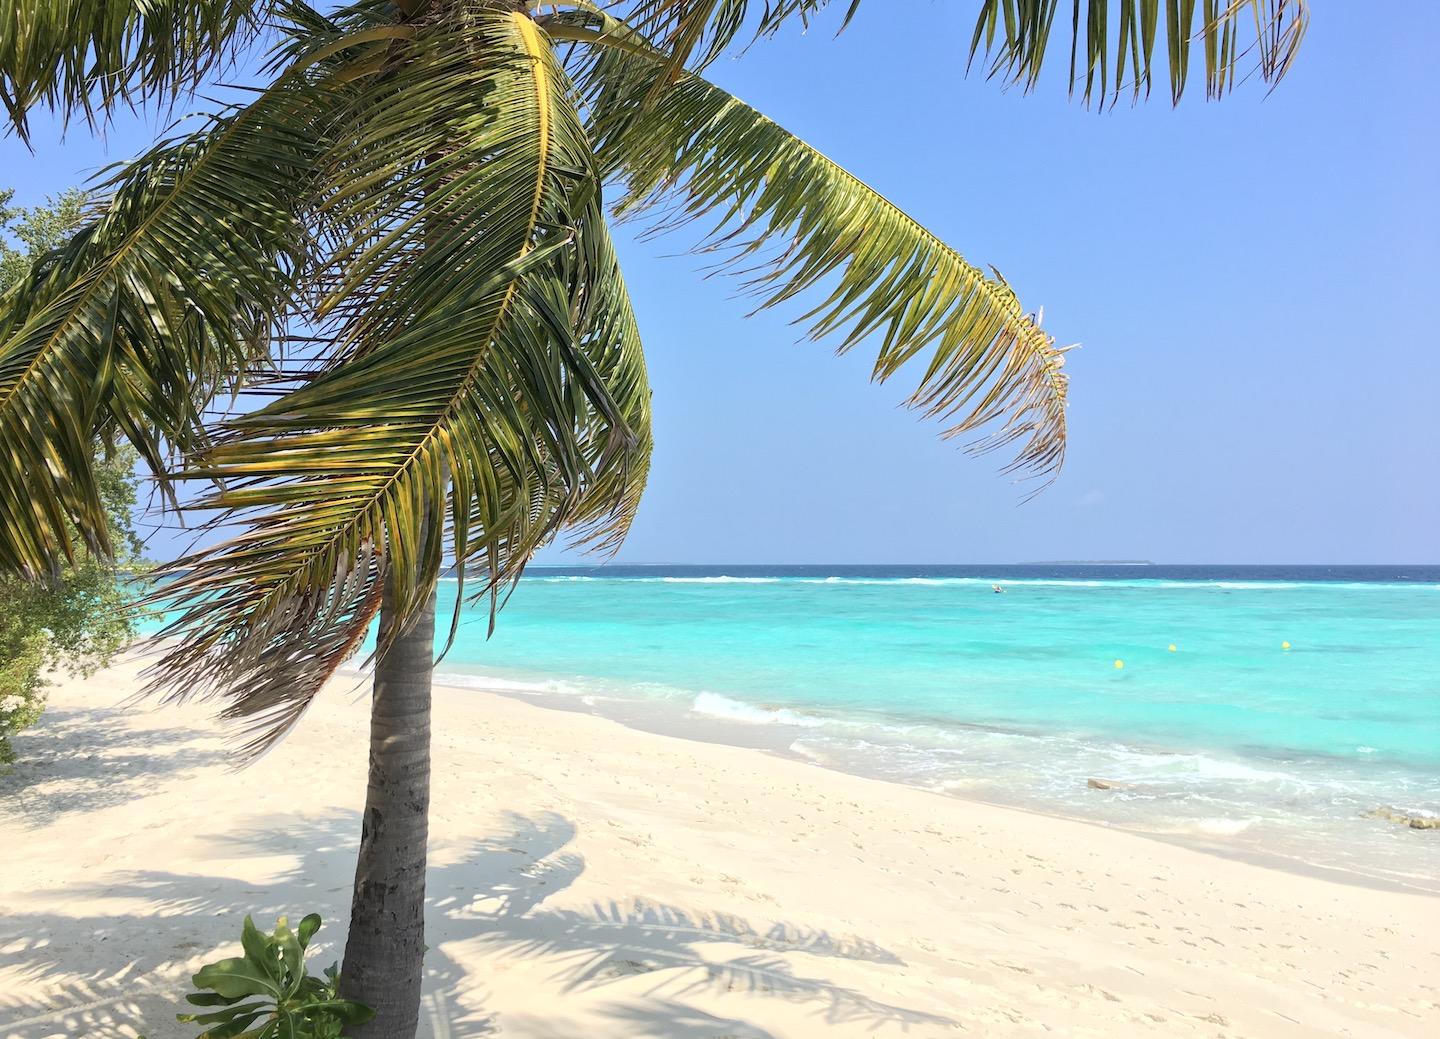
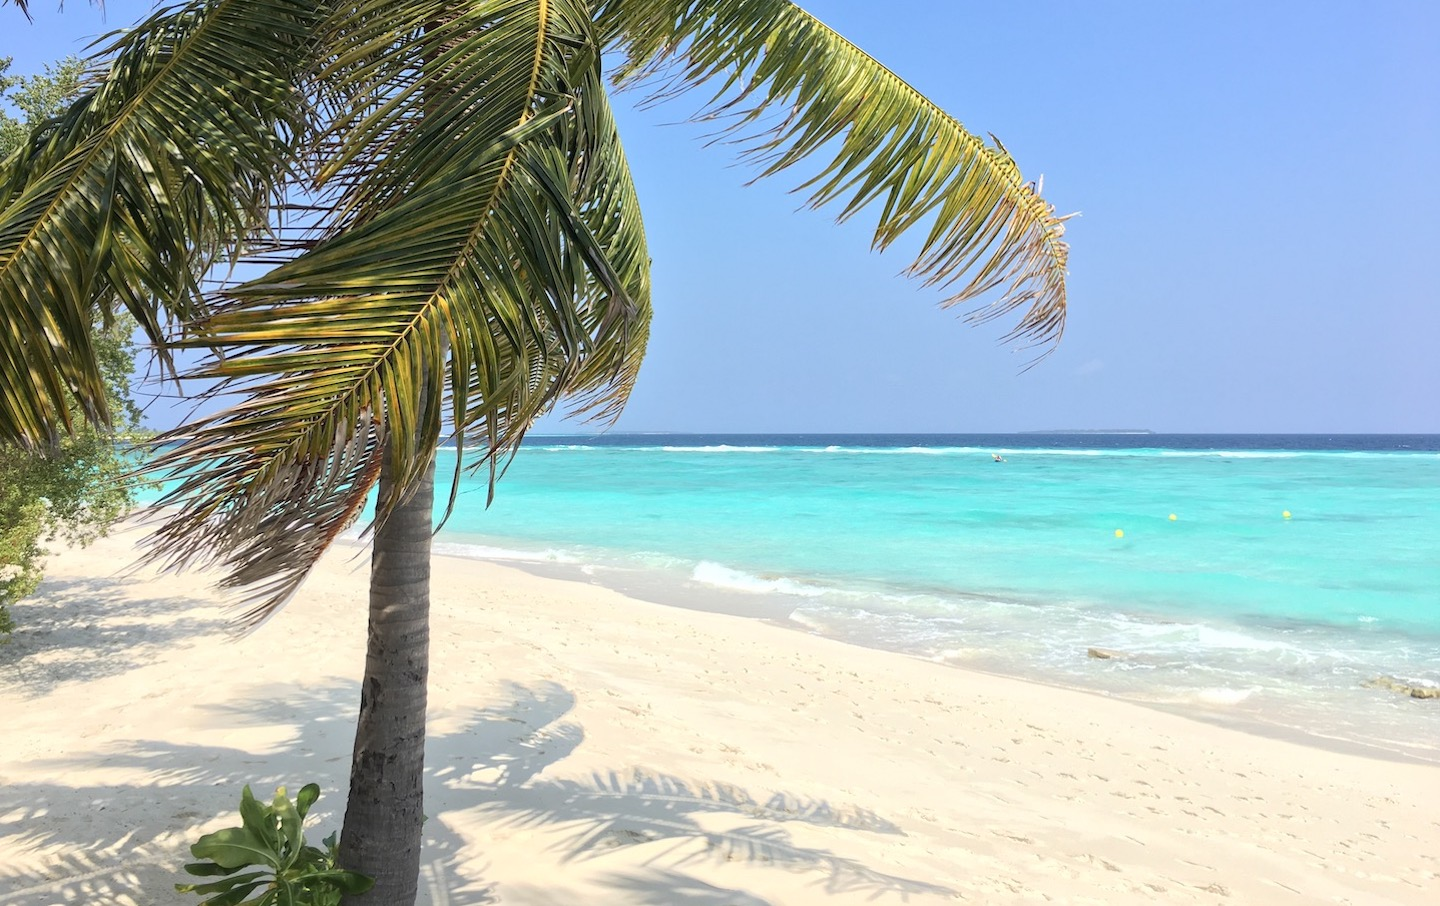
Added semi-opaque background to div's to make them more readable, and cropped background pictures to display better

diff --git a/css/default.css b/css/default.css
@@ -1,6 +1,5 @@
 body {
 	color: #ff1a75;
-	font-family: Optima, "Lucida Grande", "Lucida Sans Unicode", Verdana, Helvetica, Arial, sans-serif;
 	text-align: center;
 	font-size: 30px;
 	background-width: 1440px;
@@ -8,9 +7,23 @@ body {
 
 h1 {
 	margin-top: 30px;
+	margin-left: 162px;
+	padding: 10px;
+	font-family: "Lucida Console", Monaco, monospace;
+	font-size: 45px;
+	background-color: rgba(255, 255, 255, 0.6);
+	width: 1100px;
+	border-radius: 25px;
 }
 
 #clock {
-	margin-top: 280px;
-	font-size: 70px;
+	margin-top: 190px;
+	margin-left: 537px;
+	padding: 10px;
+	font-size: 60px;
+	font-family: "Courier New", Courier, monospace;
+	background-color: rgba(255, 255, 255, 0.6);
+	width: 350px;
+	border-radius: 15px;
+	position: fixed;
 }
